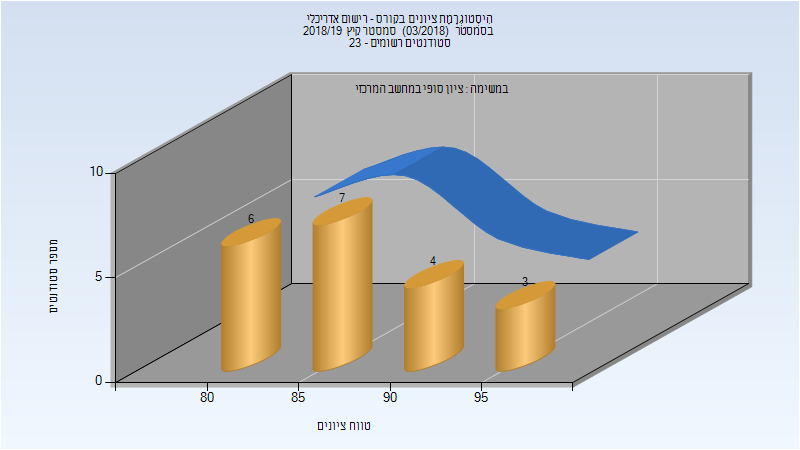
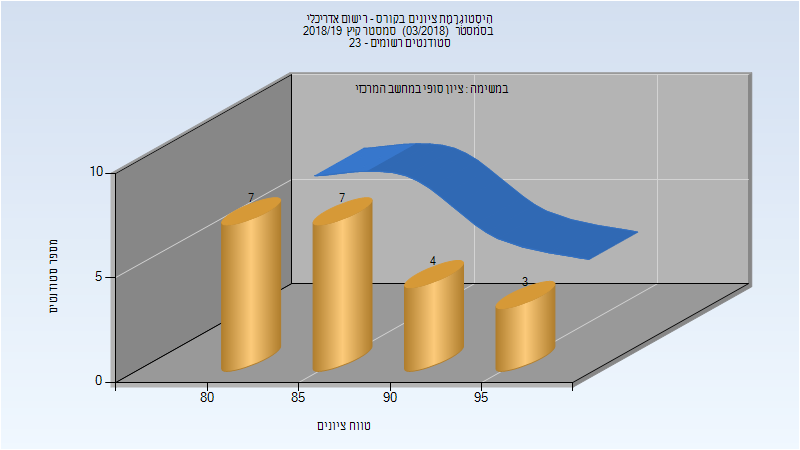
Deploy michael-maltsev/technion-histograms to github.com/michael-maltsev/technion-histograms.git:gh-pages

Changed region(s): [[0.375, 0.3111, 0.5625, 0.4356], [0.25, 0.4356, 0.375, 0.56]]

diff --git a/205814/index.html b/205814/index.html
@@ -56,13 +56,13 @@
 </thead>
 <tbody>
 <tr>
-<td>20</td>
-<td>20/0</td>
+<td>21</td>
+<td>21/0</td>
 <td>100</td>
 <td>80</td>
 <td>97</td>
-<td>87.65</td>
-<td>86.5</td>
+<td>87.476</td>
+<td>86</td>
 </tr>
 </tbody>
 </table>

diff --git a/205814/README.md b/205814/README.md
@@ -13,5 +13,5 @@
 
 | סטודנטים | עברו/נכשלו | אחוז עוברים | ציון מינימלי | ציון מקסימלי | ממוצע | חציון |
 | ---- | ---- | ---- | ---- | ---- | ---- | ---- |
-| 20 | 20/0 | 100 | 80 | 97 | 87.65 | 86.5 |
+| 21 | 21/0 | 100 | 80 | 97 | 87.476 | 86 |
 
